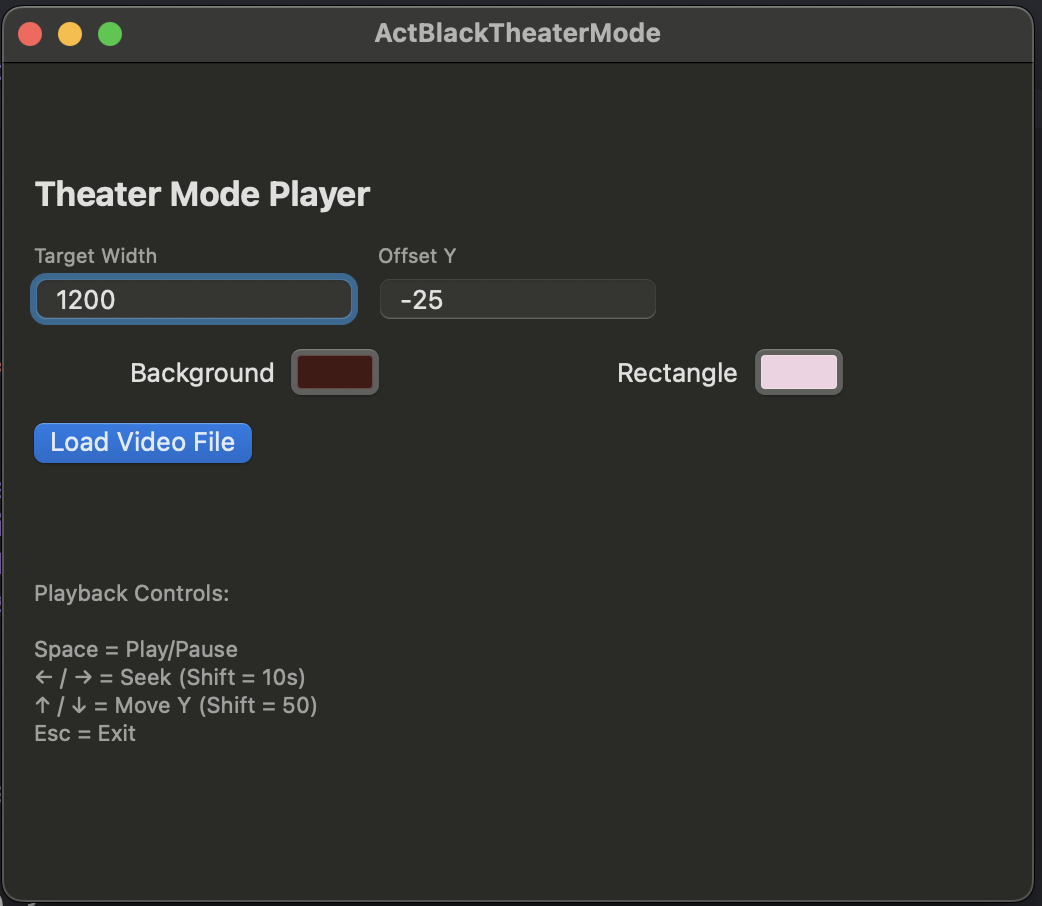
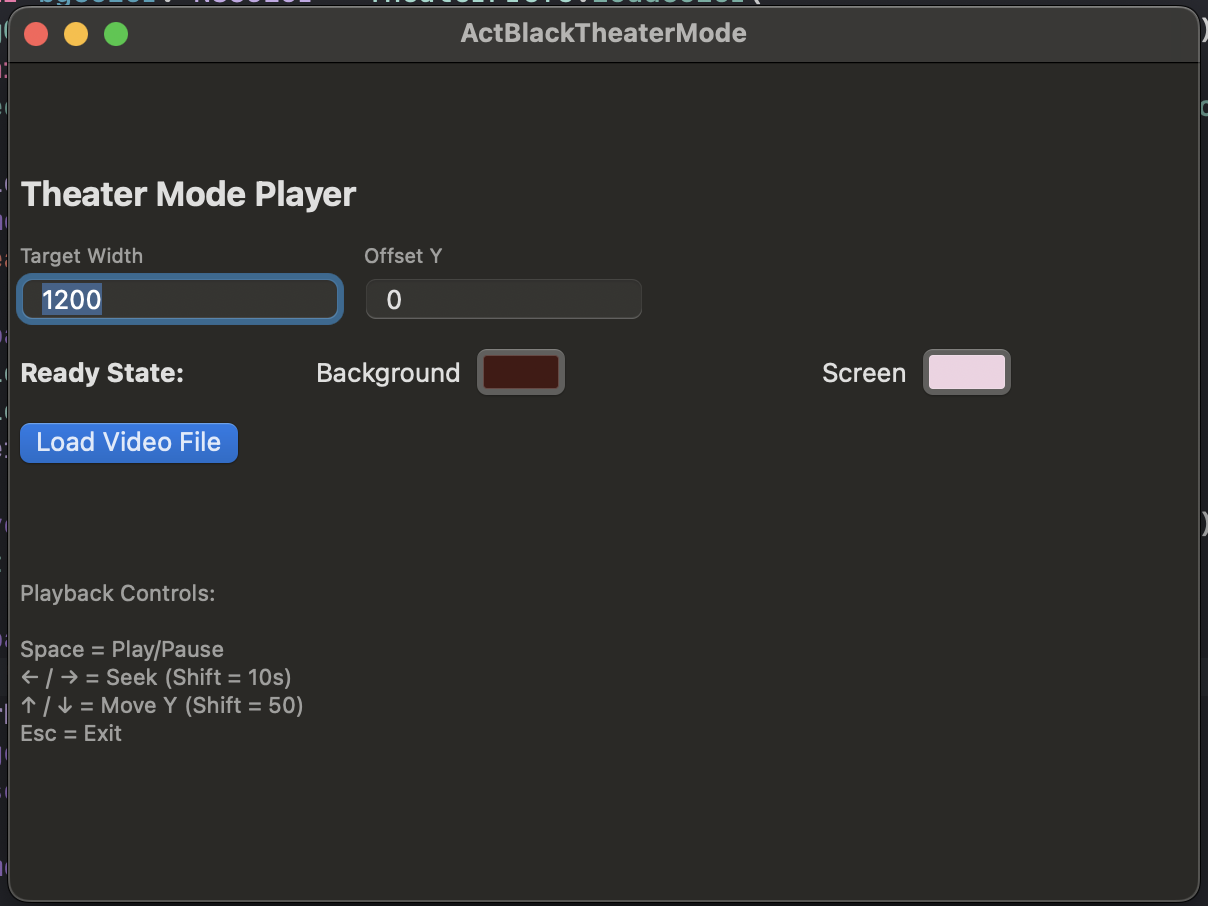
minor label update

diff --git a/ActBlackTheaterMode/ActBlackTheaterMode/ContentView.swift b/ActBlackTheaterMode/ActBlackTheaterMode/ContentView.swift
@@ -27,13 +27,14 @@ struct ContentView: View {
                 yText = "\(TheaterPrefs.loadInt(PrefKey.offsetY, default: 0))"
             }
             HStack(spacing: 18) {
+                Text("Ready State:").font(.headline)
                 ColorPicker("Background", selection: Binding(
                     get: { Color(nsColor: bgColor) },
                     set: { newVal in bgColor = NSColor(newVal) }
                 ))
                 .frame(width: 220)
 
-                ColorPicker("Rectangle", selection: Binding(
+                ColorPicker("Screen", selection: Binding(
                     get: { Color(nsColor: rectColor) },
                     set: { newVal in rectColor = NSColor(newVal) }
                 ))
